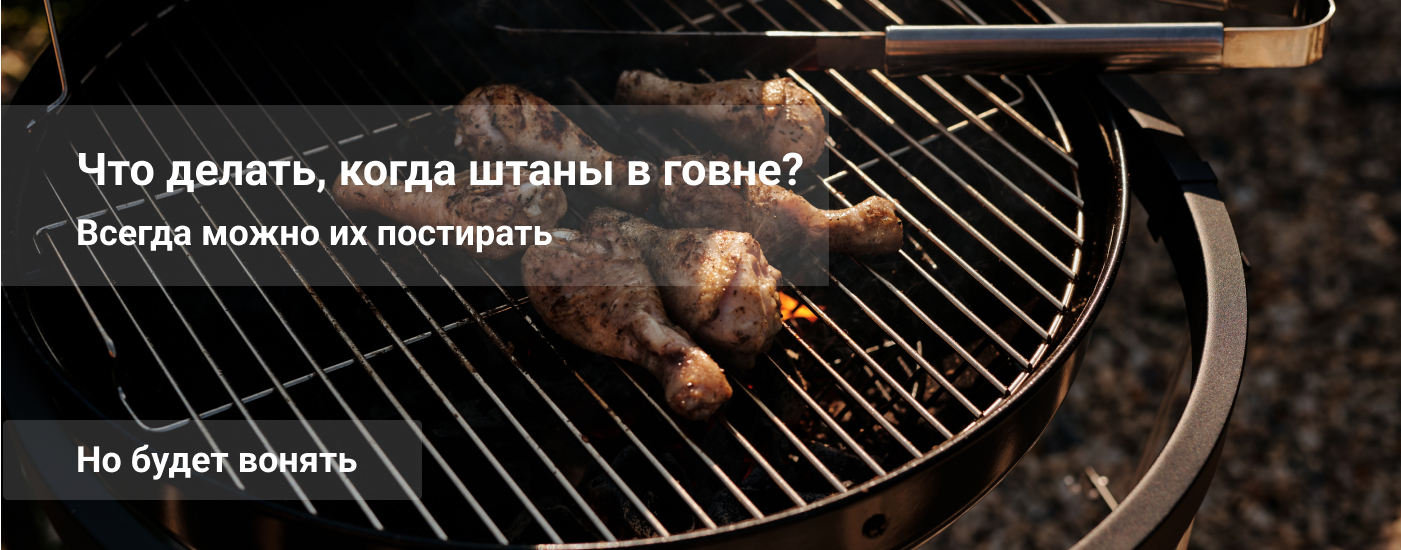
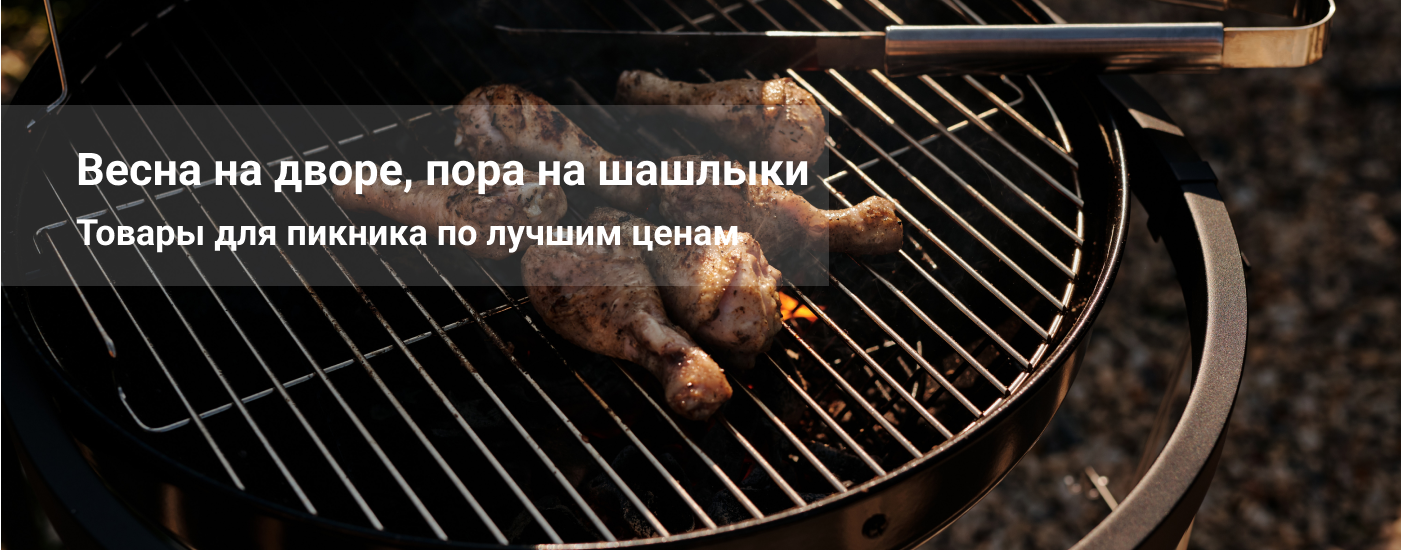
Все с корзиной и главная без шуток про письки

Changed region(s): [[0.0, 0.7418, 0.3069, 0.9273], [0.0307, 0.2782, 0.5832, 0.3709], [0.0307, 0.4018, 0.5525, 0.4636]]

diff --git a/client/src/stuff/Product.js b/client/src/stuff/Product.js
@@ -1,39 +1,44 @@
 import React, { useContext, useEffect, useState } from 'react'
 import { Link } from 'react-router-dom'
 import { AuthContext } from '../context/AuthContext'
-export default function Product({ product}) {
+export default function Product({ product }) {
   const auth = useContext(AuthContext)
   const [quantity, setQuantity] = useState(0)
-  async function getQuantity(){
-    var cartProd = await auth.cart.find((el)=>el._id===product._id)
-    if(cartProd ==undefined){
-      setQuantity(0) 
-    }else{
+  async function getQuantity() {
+    if(auth.cart==null){
+      setQuantity(0)
+      return
+    }
+    var cartProd = await auth.cart.find((el) => el._id === product._id)
+    if (cartProd == undefined) {
+      setQuantity(0)
+    } else {
       setQuantity(cartProd.quantity)
     }
   }
-  function plusCart(){
-    auth.addInCart(product,quantity+1)
-    setQuantity(quantity+1)
+  function plusCart() {
+    var changedQuantuty = quantity + 1
+    if (changedQuantuty < product.min_quantity) {
+      changedQuantuty = product.min_quantity
+    }
+    auth.addInCart(product, changedQuantuty)
+    setQuantity(changedQuantuty)
   }
-  function minusCart(){
-    if(quantity>0){
-      if(quantity==1){
-        auth.deleteFromCart(product._id)
-        setQuantity(0)
-      }else{
-        auth.addInCart(product,quantity)
-        setQuantity(quantity-1)
-      }
-    }else{
+  function minusCart() {
+    var changedQuantuty = quantity - 1
+    if (changedQuantuty >= product.min_quantity) {
+      auth.addInCart(product, changedQuantuty)
+      setQuantity(changedQuantuty)
+
+    } else {
       auth.deleteFromCart(product._id)
       setQuantity(0)
     }
-     
+
   }
-  useEffect(()=>{
+  useEffect(() => {
     getQuantity()
-  },[])
+  }, [])
   return (
     <div className='card hoverable product' id={product._id}>
       <div className='card-image waves-effect waves-block waves-light'>
@@ -54,7 +59,7 @@ export default function Product({ product}) {
             <i className="material-icons prefix waves-effect col s3 plus-minus" onClick={minusCart}>remove</i>
             <span className="plus-minus-text col s6 ">{quantity}</span>
             <i className="material-icons prefix waves-effect right col s3 plus-minus" onClick={plusCart}>add</i>
-            </div>
+          </div>
         </div>
       </div>
       {/* <div className='card-content'>

diff --git a/client/src/pages/Main.js b/client/src/pages/Main.js
@@ -1,22 +1,20 @@
 import React, { useEffect, useState } from 'react'
 import { NavLink } from 'react-router-dom'
-import $ from 'jquery'
 import { useHttp } from '../hooks/http.hook'
-import Products from '../stuff/Products'
 import Product from '../stuff/Product'
 import Slider from 'react-slick'
 export default function Main() {
   const popularProductsId = ['61f63f647efacc392a1ae510', '61f63f677efacc392a1ae514', '61f63f687efacc392a1ae516', '61f63f697efacc392a1ae524', '61f63f697efacc392a1ae528', '61f63f6a7efacc392a1ae52e']
   const { request } = useHttp()
   const [popularProducts, updatePopularProducts] = useState([])
-  const windowInnerWidth=window.innerWidth
+  const windowInnerWidth = window.innerWidth
   const slidesToShow = countSlides()
-  function countSlides(){
-    if(windowInnerWidth>992){
+  function countSlides() {
+    if (windowInnerWidth > 992) {
       return 3
-    }else if(windowInnerWidth>600){
+    } else if (windowInnerWidth > 600) {
       return 2
-    }else{
+    } else {
       return 1
     }
   }
@@ -48,9 +46,6 @@ export default function Main() {
     })
     updatePopularProducts(data.result)
   }
-  function mainBannerOnClick() {
-    alert('Сосать будешь?')
-  }
   var settings = {
     dots: true,
     infinite: true,
@@ -67,13 +62,14 @@ export default function Main() {
   useEffect(() => {
     getPopular()
   }, [])
+  ///catalog/171
   return (
     <div className='container'>
       <div className='row'>
         <div className='col s12'>
           <div className='card'>
             <div className='card-image hoverable '>
-              <img onClick={mainBannerOnClick} src='banner-first-main.png'></img>
+              <NavLink to='/catalog/171'><img src='banner-first-main.png'></img></NavLink>
             </div>
 
           </div>

diff --git a/client/src/hooks/cart.hook.js b/client/src/hooks/cart.hook.js
@@ -2,6 +2,13 @@ import { useCallback, useState, useEffect } from "react"
 
 export const useCart = ()=>{
     const [cart,updateCart] = useState([])
+    useEffect(() => {
+        const data = JSON.parse(localStorage.getItem('cart'))
+        if(data!=null){
+            updateCart(data)
+        }
+        
+    }, [])
     const addInCart = useCallback((product,quantity)=>{
         var foundedIndex = cart.findIndex((el)=>el._id===product._id)
         if(foundedIndex == -1){
@@ -22,24 +29,19 @@ export const useCart = ()=>{
             cartRed[foundedIndex].quantity = quantity
             updateCart(cartRed)
         }
-        
-    },[])
+        localStorage.setItem('cart', JSON.stringify(cartRed))
+    })
     const deleteFromCart = useCallback((id)=>{
         var foundedIndex = cart.findIndex((el)=>el._id===id)
         const newCart = [...cart.slice(0, foundedIndex), ...cart.slice(foundedIndex + 1)]
         //
         updateCart(newCart)
-    },[])
-    const deleteAll = useCallback(()=>{
+        localStorage.setItem('cart', JSON.stringify(newCart))
+    })
+    const deleteAll=useCallback(()=>{
         updateCart([])
         localStorage.removeItem('cart')
     })
-    useEffect(()=>{
-        localStorage.setItem('cart', JSON.stringify(cart))
-    },[cart])
-    useEffect(() => {
-        const data = JSON.parse(localStorage.getItem('cart'))
-        updateCart(data)
-    }, [])
+    
     return {cart,addInCart,deleteFromCart,deleteAll }
 }

diff --git a/client/src/stuff/Footer.js b/client/src/stuff/Footer.js
@@ -16,7 +16,7 @@ export default function Footer() {
                 <div className='col l2 m8 offset-m4 hide-on-small-only'>
                     <span className='footer-text right-align'>+79059216808</span>
                     <br className='hide-on-med-and-down' />
-                    <span className='footer-text right-align'>piskaZdorovaya@mail.ru</span>
+                    <span className='footer-text right-align'>moshnayaPochta@mail.ru</span>
                 </div>
                 <div className='col s12 hide-on-med-and-up'>
                     <NavLink to='/' className='footer-text'><span>Доставка и оплата</span></NavLink>
@@ -38,7 +38,7 @@ export default function Footer() {
                 </div>
 
                 <div className='col s12 hide-on-med-and-up'>
-                    <span className='footer-text right-align'>piskaZdorovaya@mail.ru</span>
+                    <span className='footer-text right-align'>moshnayaPochta@mail.ru</span>
 
                 </div>
 

diff --git a/client/src/stuff/Navbar.js b/client/src/stuff/Navbar.js
@@ -17,7 +17,6 @@ export default function Navbar() {
         message("Выход выполнен")
 
     }
-
     function clickCatalog() {
         if (drawedCategories.length) {
             setDrawedCategories([])
@@ -106,7 +105,7 @@ export default function Navbar() {
                             <form className='grey lighten-3 nav-search'>
                                 <div className="input-field">
 
-                                    <input id="search" type="search" placeholder='Поиск епту' required />
+                                    <input id="search" type="search" placeholder='Поиск епту' required  />
 
                                 </div>
                             </form>

diff --git a/client/src/pages/Catalog.js b/client/src/pages/Catalog.js
@@ -67,7 +67,7 @@ export default function Catalog() {
                     onPageChange={pageClickHandler}
                     pageCount={pageCount}
                     renderOnZeroPageCount={null}
-                    activeClassName="active"
+                    activeClassName="active blue"
                     className='col s12 center-align pagination'
                     pageClassName='waves-effect'
                 />
